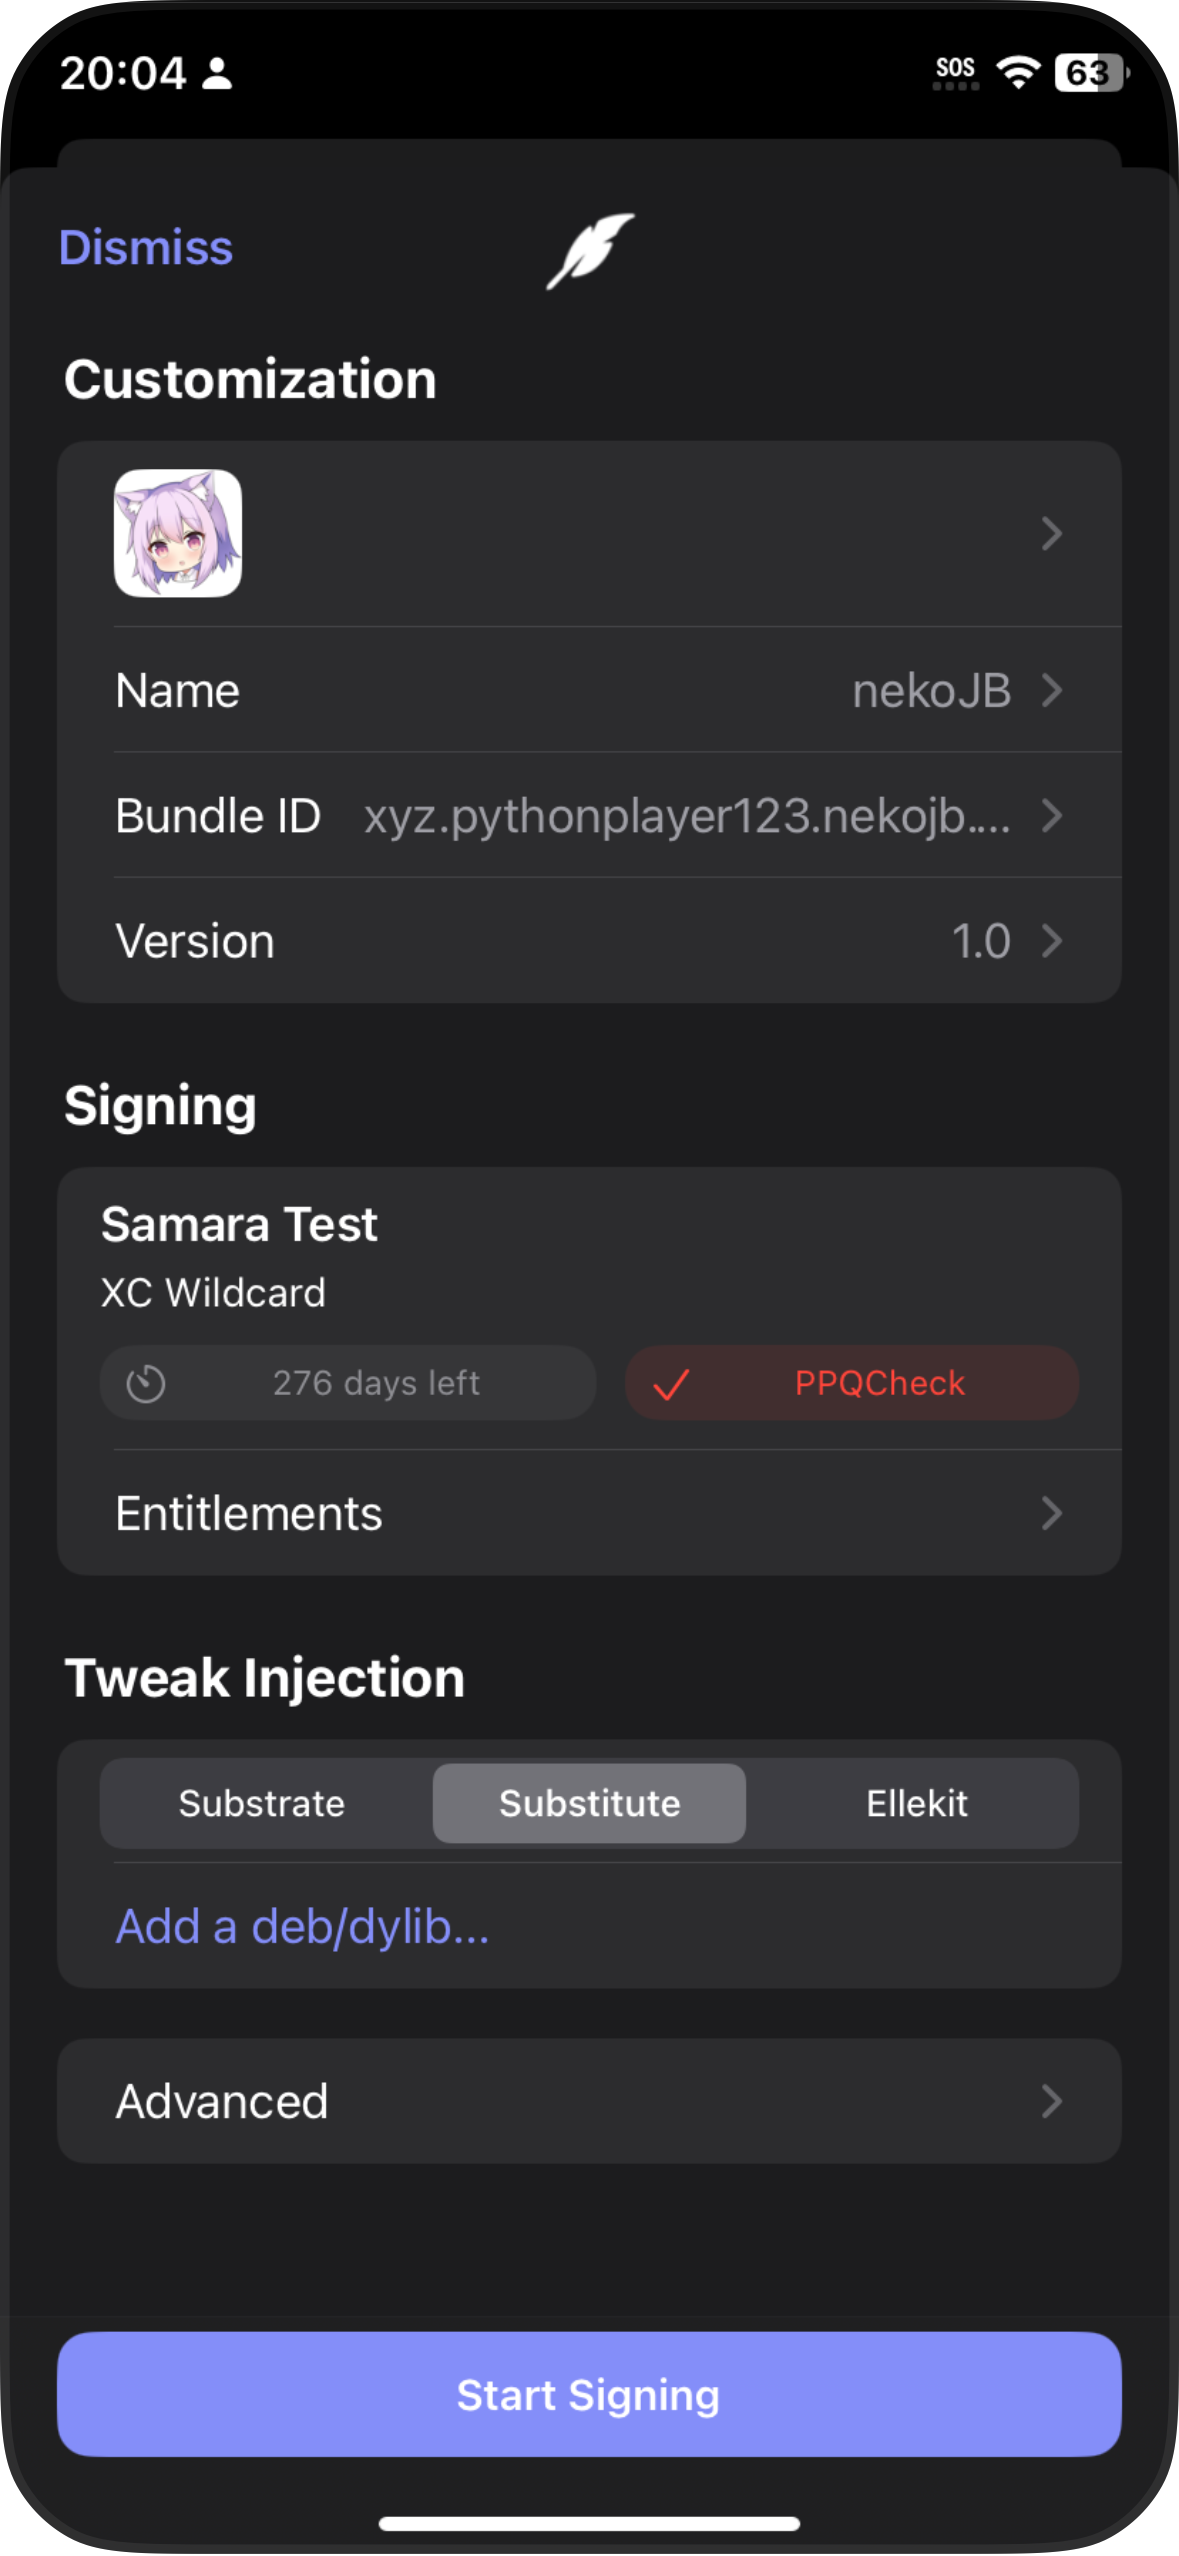
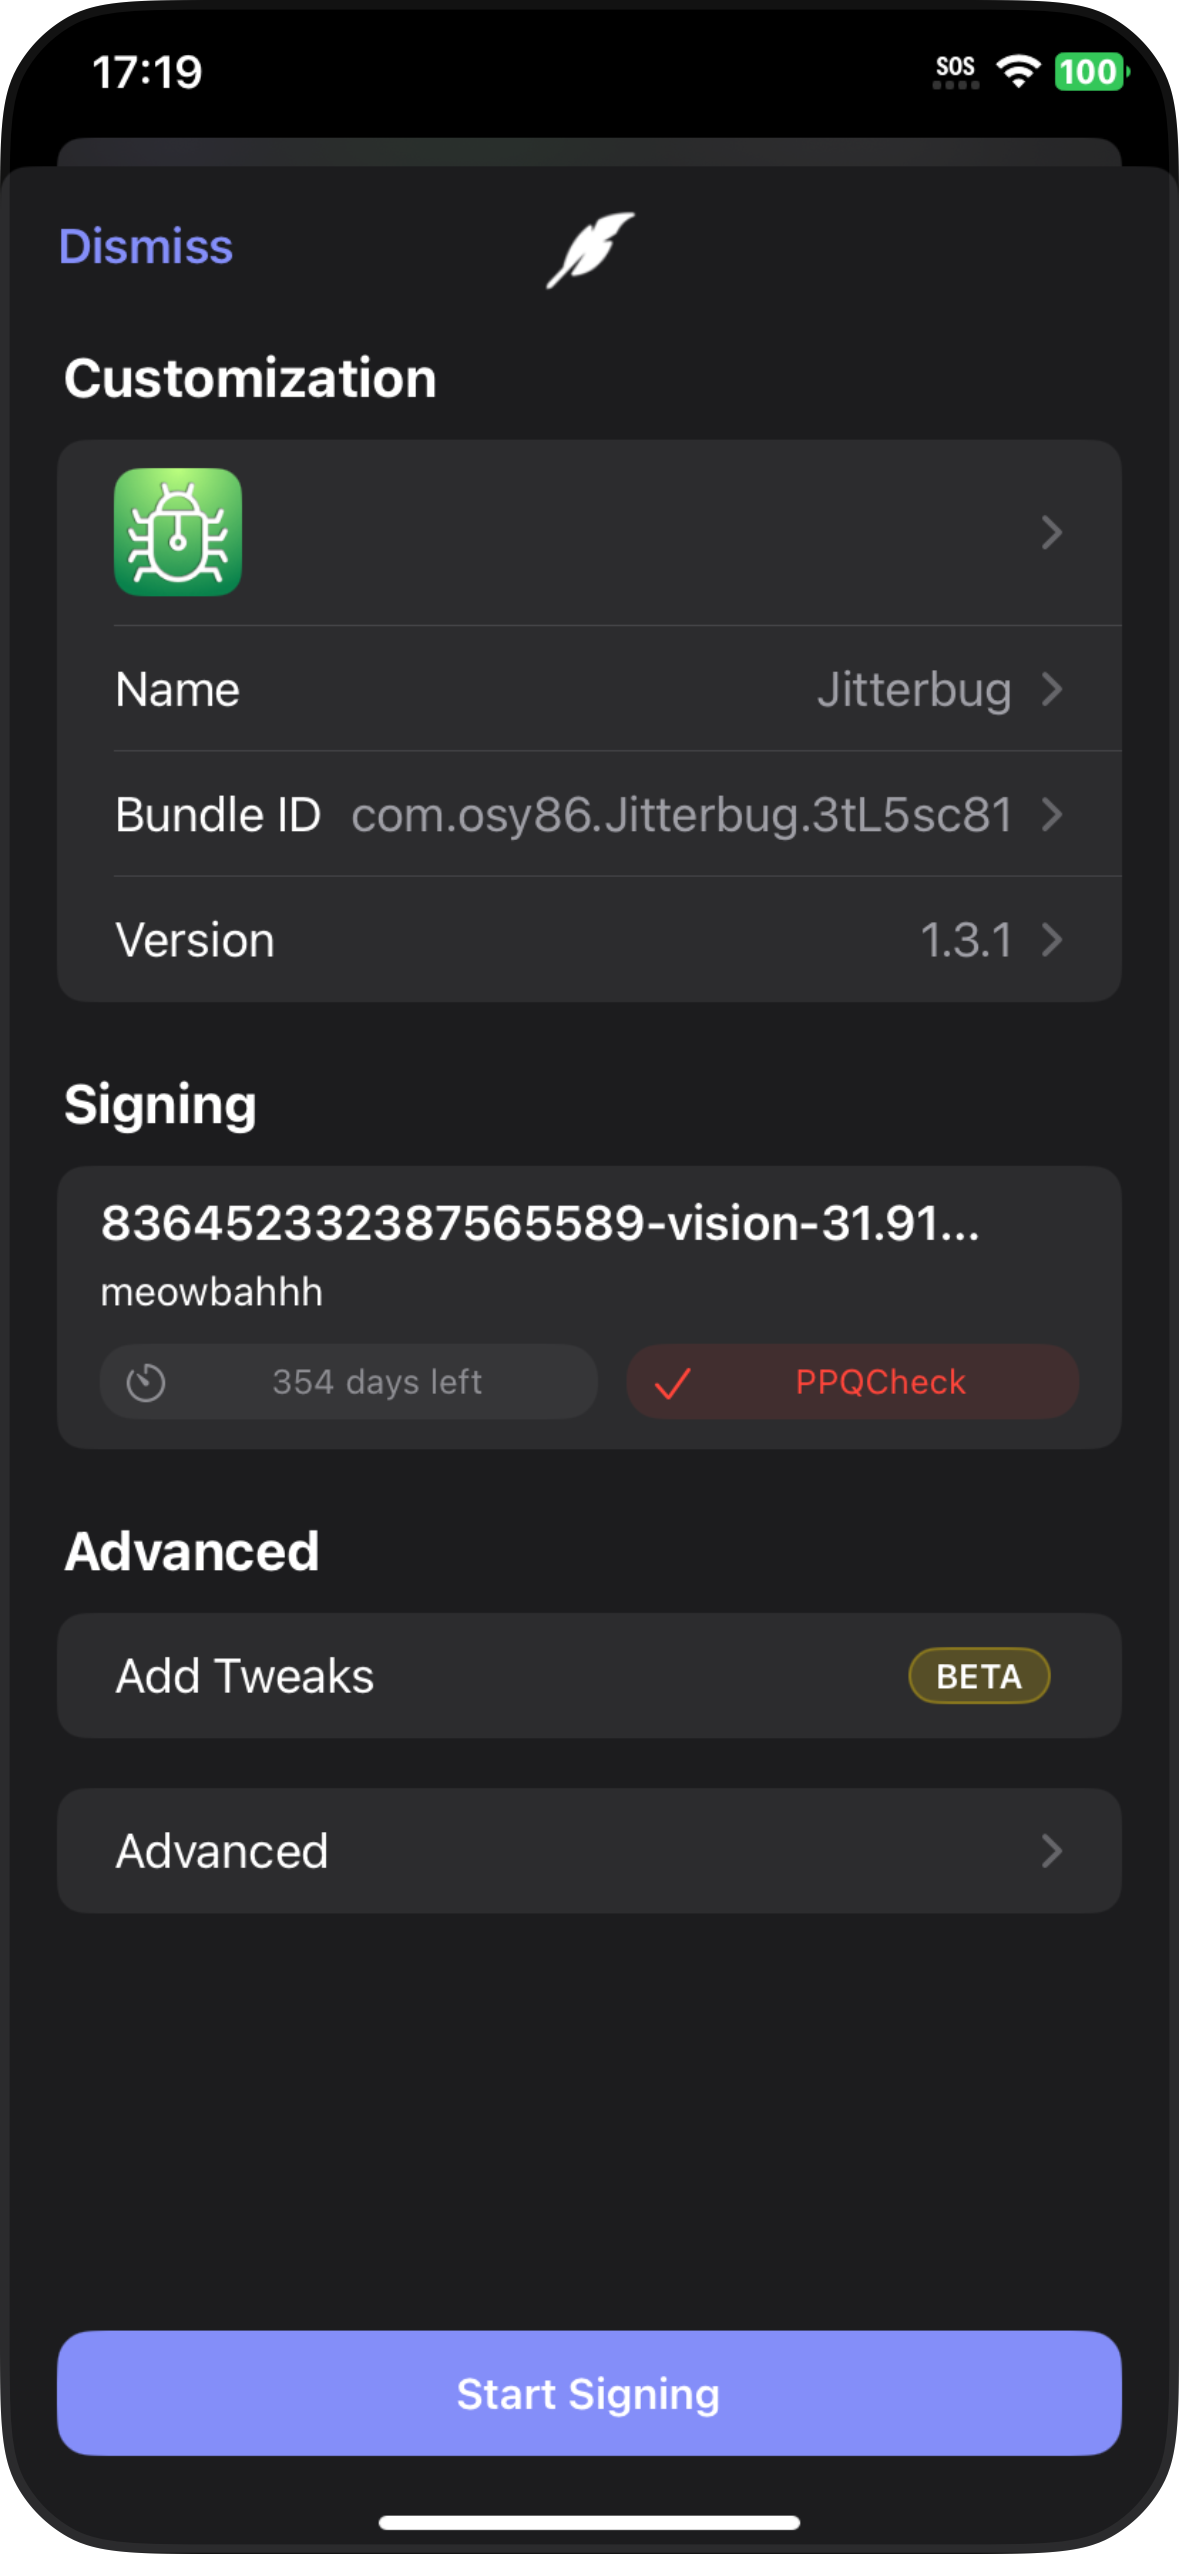
chore: mention tweak support

diff --git a/README.md b/README.md
@@ -11,37 +11,48 @@
 
 
 ## Features
-- Altstore repo support, supporting Legacy and 2.0 repo structures
-- Import your own `.ipa`'s
-- Inject tweaks when signing apps
-- Install applications straight to your device seemlessly over the air
-- Allows multiple certificate imports for easy switching
-- Configurable signing options (name, bundleid, version, other plist options)
-- Meant to be used with Apple Accounts that are apart of `ADP` (Apple Developer Program), however other certificates can also work!
-- Easy resigning! If you have another certificate you would like to use on an app you may resign and reinstall that same app!
-- No tracking, analytics, or any of the sort. Your information such as udid and certificates will never leave the device.
+- **Altstore repo support**. *Supporting Legacy and 2.0 repo structures*
+
+- **Import your own `.ipa`'s**.
+- **Inject tweaks when signing apps**.
+- **Install applications straight to your device seemlessly over the air**.
+- **Allows multiple certificate imports for easy switching**.
+- **Configurable signing options**. *(name, bundleid, version, other plist options)*
+- **Meant to be used with Apple Accounts that are apart of `ADP` (Apple Developer Program)**. *however other certificates can also work!*
+- **Easy resigning**! *If you have another certificate you would like to use on an app you may resign and reinstall that same app!*
+- **No tracking, analytics, or any of the sort**. *Your information such as udid and certificates will never leave the device.*
+
+> [!IMPORTANT]
+> **Tweak support is in beta**, make sure your tweaks work on the [Ellekit](https://theapplewiki.com/wiki/ElleKit) hooking platform, and built with the latest version of theos.
+> 
+> **Some tweaks, not all, should work with Feather.** However, don't expect tweaks to work out of the box. As we will not change any dylib load commmand that isn't CydiaSubstrate.
 
 ## Screenshots
 
 | <p align="center"><picture><source media="(prefers-color-scheme: dark)" srcset="Images/Repos.png"><source media="(prefers-color-scheme: light)" srcset="Images/Repos_L.png"><img alt="Pointercrate-pocket." src="Images/Repos_L.png" width="200"></picture></p> | <p align="center"><picture><source media="(prefers-color-scheme: dark)" srcset="Images/Store.png"><source media="(prefers-color-scheme: light)" srcset="Images/Store_L.png"><img alt="Pointercrate-pocket." src="Images/Store_L.png" width="200"></picture></p> | <p align="center"><picture><source media="(prefers-color-scheme: dark)" srcset="Images/Library.png"><source media="(prefers-color-scheme: light)" srcset="Images/Library_L.png"><img alt="Pointercrate-pocket." src="Images/Library_L.png" width="200"></picture></p> | <p align="center"><picture><source media="(prefers-color-scheme: dark)" srcset="Images/Sign.png"><source media="(prefers-color-scheme: light)" srcset="Images/Sign_L.png"><img alt="Pointercrate-pocket." src="Images/Sign_L.png" width="200"></picture></p> |
 |:--:|:--:|:--:|:--:|
 | **Library** | **Store** | **Library** | **Signing** |
+> Tip: Go into lightmode to see lightmode screenshots!
 
 ## How it Works
 
 Feather allows you to import a `.p12` and a `.mobileprovision` pair to sign the application with (you will need a correct password to the p12 before importing). [Zsign](https://github.com/zhlynn/zsign) is used for the signing aspect, feather feeds it the certificates you have selected in its certificates tab and will sign the app on your device - after its finished it will now be added to your signed applications tab. When selected, it will take awhile as its compressing and will prompt you to install it.
 
+## FAQ
+
 > What does feather use for its server?
 
 It uses the [localhost.direct](https://github.com/Upinel/localhost.direct) certificate and [Http.swift](https://swiftpackageindex.com/BiAtoms/Http.swift) to self host an HTTPS server on your device - all itms services really needs is a valid certificate and a valid HTTPS server. Which allows iOS to accept the request and install the application.
 
-> Why Does Feather Append a Random String on the Identifier?
+> Why does Feather append a random string on the bundle ID?
 
 New ADP (Apple Developer Program) memberships created after June 6, 2021, require development and ad-hoc signed apps for iOS, iPadOS, and tvOS to check with a PPQ (Provisioning Profile Query Check) service when the app is first launched. The device must be connected to the internet to verify.
 
 PPQCheck checks for a similar bundle identifier on the App Store, if said identifier matches the app you're launching and is happened to be signed with a non-appstore certificate, your Apple ID may be flagged and even banned from using the program for any longer.
 
 This is why we prepend the random string before each identifier, its done as a safety meassure - however you can disable it if you *really* want to in Feathers settings page.
+
+*NOTE: IF YOU WANT TO KEEP APPLICATION DATA THROUGH REINSTALLS, MAKE SURE YOU HAVE THE SAME BUNDLEID.*
 
 ## Building
 
